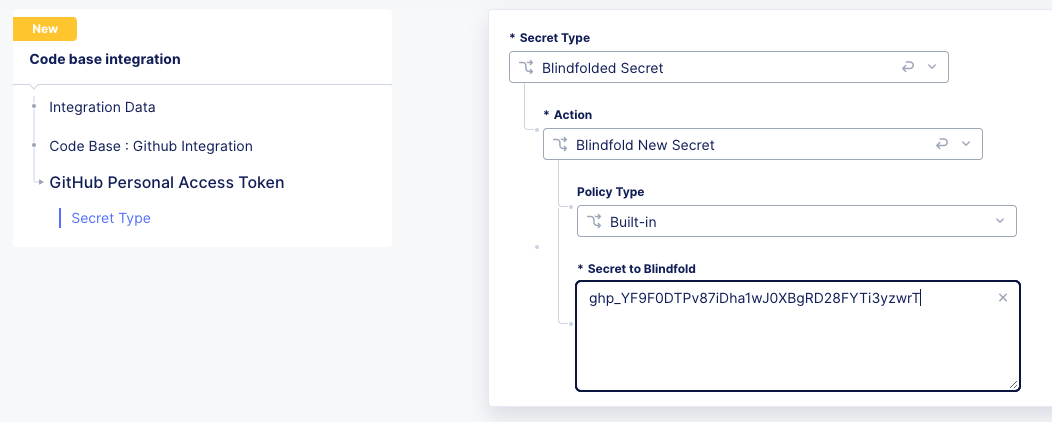
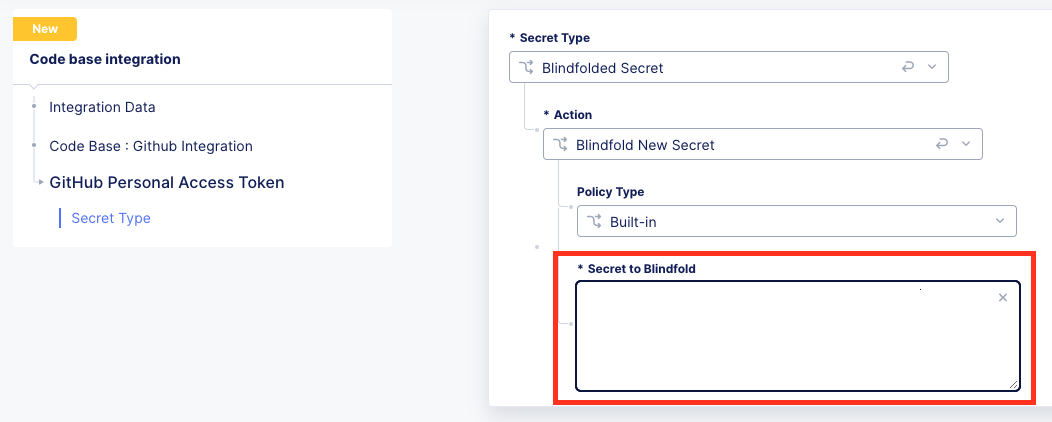
lab2

Changed region(s): [[0.5171, 0.5853, 1.0, 0.9858]]

diff --git a/docs/class4/module2/lab2/lab2.rst b/docs/class4/module2/lab2/lab2.rst
@@ -21,18 +21,16 @@ Enable Code Base Integration
 
   * Name: ``github-sentence``
   * Code base: ``Github Integration``
-  * Github UserName: ``redf5``
-  * GitHub Personal Access Token: copy and paste the classic token below to Blindfold
+  * Github UserName: ``please check the "internal" tab in UDF deployment for the username``
+  * GitHub Personal Access Token: ``please check the "internal" tab in UDF deployment for the token``
 
-  .. code-block:: bash
-
-    1234
-
-
+  
 .. image:: ../pictures/code-base-integration-username.png
    :align: left
 
 |
+
+* Click on Configure in "GitHub Personal Access Token" to enter the token into "Secret to Blindfold". 
 
 .. image:: ../pictures/code-base-integration-token-blindfold.png
       :align: left
